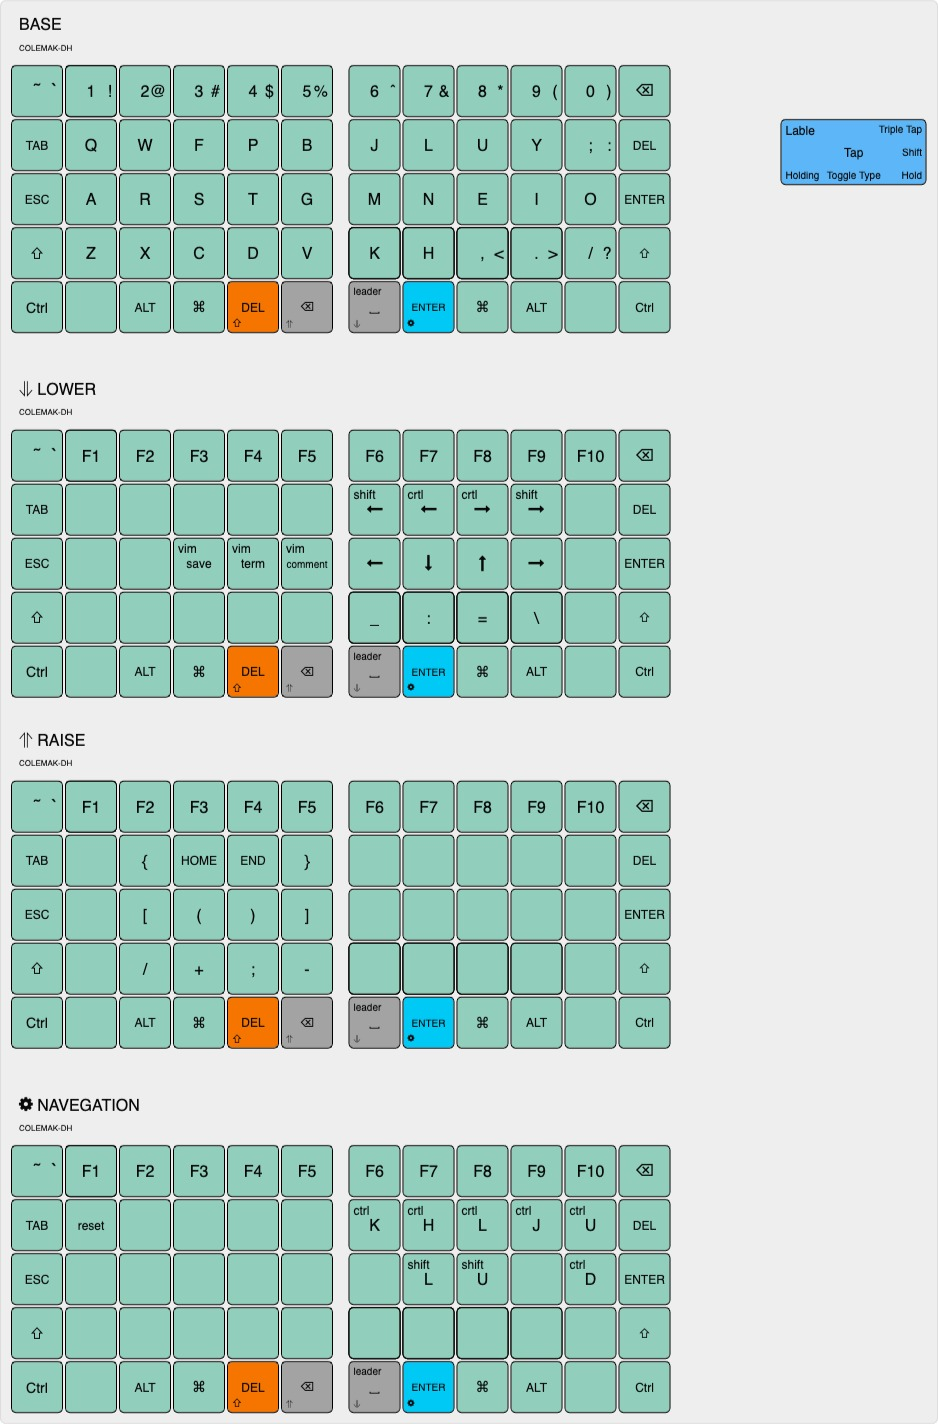
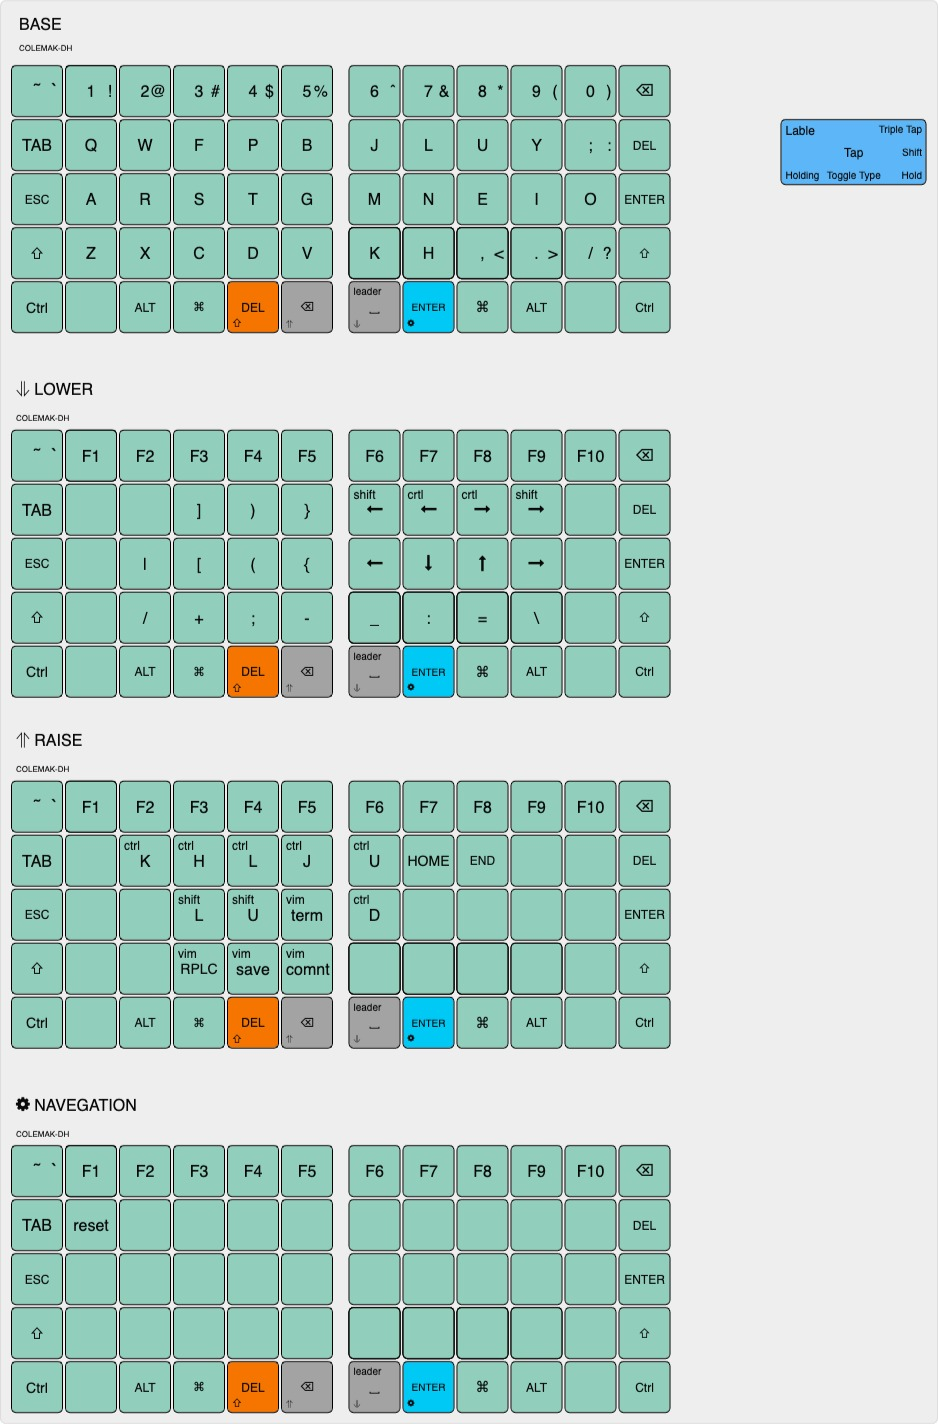
update mappings

diff --git a/src/qmk/users/arturgoms/definitions/keymap_blocks.h b/src/qmk/users/arturgoms/definitions/keymap_blocks.h
@@ -26,9 +26,9 @@
  // |_______________________________________________________________________________________________________________________________|
 
 #define __________________LOWER_L0________________ KC_F1, KC_F2, KC_F3, KC_F4, KC_F5
-#define __________________LOWER_L1________________ XXXXXXX, XXXXXXX, XXXXXXX, XXXXXXX, XXXXXXX
-#define __________________LOWER_L2________________ XXXXXXX, MC_CPR, MC_SAVE, LCTL(KC_BSLS), MC_COMMENT
-#define __________________LOWER_L3________________ XXXXXXX, XXXXXXX, XXXXXXX, XXXXXXX, XXXXXXX
+#define __________________LOWER_L1________________ XXXXXXX, XXXXXXX, KC_RBRC, KC_RPRN, LSFT(KC_RBRC)
+#define __________________LOWER_L2________________ XXXXXXX, KC_PIPE, KC_LBRC, KC_LPRN, LSFT(KC_LBRC)
+#define __________________LOWER_L3________________ XXXXXXX, KC_SLSH, LSFT(KC_EQL), KC_SCLN, KC_MINS
 #define _____LOWER_L4_____                         KC_LGUI,  _______ , MED_0
 
 #define ________LOWER_M0_________                                KC_F6, KC_F7, KC_F8
@@ -41,14 +41,14 @@
  // |_______________________________________________________________________________________________________________________________|
 
 #define _________________RAISE_L0___________________ KC_F1, KC_F2, KC_F3, KC_F4, KC_F5
-#define _________________RAISE_L1___________________ XXXXXXX, LSFT(KC_LBRC), KC_HOME,      KC_END,  LSFT(KC_RBRC)
-#define _________________RAISE_L2___________________ XXXXXXX, KC_LBRC,       KC_LPRN,      KC_RPRN, KC_RBRC
-#define _________________RAISE_L3___________________ XXXXXXX, KC_SLSH,       LSFT(KC_EQL), KC_SCLN, KC_MINS
+#define _________________RAISE_L1___________________ XXXXXXX, LCTL(KC_K), LCTL(KC_H), LCTL(KC_L), LCTL(KC_J)
+#define _________________RAISE_L2___________________ XXXXXXX, XXXXXXX,    LSFT(KC_L), LSFT(KC_U), LCTL(KC_BSLS)
+#define _________________RAISE_L3___________________ XXXXXXX, XXXXXXX,    MC_CPR,     MC_SAVE,    MC_COMMENT
 #define _____RAISE_L4_______                                           KC_LGUI, _______ , _______
 
 #define _________________RAISE_R0_________________ XXXXXXX , XXXXXXX , XXXXXXX , XXXXXXX , XXXXXXX
-#define _________________RAISE_R1_________________ XXXXXXX , XXXXXXX , XXXXXXX , XXXXXXX , XXXXXXX
-#define _________________RAISE_R2_________________ XXXXXXX , XXXXXXX , XXXXXXX , XXXXXXX , XXXXXXX
+#define _________________RAISE_R1_________________ LCTL(KC_U) , KC_HOME , KC_END , XXXXXXX , XXXXXXX
+#define _________________RAISE_R2_________________ LCTL(KC_D) , XXXXXXX , XXXXXXX , XXXXXXX , XXXXXXX
 #define _________________RAISE_R3_________________ XXXXXXX , XXXXXXX , XXXXXXX , XXXXXXX , XXXXXXX
 #define _______RAISE_R4_______                     _______ , _______, KC_RGUI
  // |_______________________________________________________________________________________________________________________________|
@@ -59,10 +59,10 @@
 #define ______________MAINTENANCE_L3_____________ XXXXXXX , RGB_SAD , RGB_SAI , XXXXXXX  , XXXXXXX
 #define __MAINTENANCE_L4_                                             KC_LGUI,  _______ , _______
 
-#define ______________MAINTENANCE_R0____________ XXXXXXX,  XXXXXXX , XXXXXXX , XXXXXXX , XXXXXXX
-#define ______________MAINTENANCE_R1____________ LCTL(KC_K) , LCTL(KC_H)  , LCTL(KC_L) , LCTL(KC_J) ,  LCTL(KC_U)
-#define ______________MAINTENANCE_R2____________ MC_COMMENT , LSFT(KC_L)  , LSFT(KC_U) , XXXXXXX    ,  LCTL(KC_D)
-#define ______________MAINTENANCE_R3____________ XXXXXXX    , XXXXXXX     , XXXXXXX    , XXXXXXX    , XXXXXXX
+#define ______________MAINTENANCE_R0____________ XXXXXXX , XXXXXXX , XXXXXXX , XXXXXXX , XXXXXXX
+#define ______________MAINTENANCE_R1____________ XXXXXXX , XXXXXXX , XXXXXXX , XXXXXXX , XXXXXXX
+#define ______________MAINTENANCE_R2____________ XXXXXXX , XXXXXXX , XXXXXXX , XXXXXXX , XXXXXXX
+#define ______________MAINTENANCE_R3____________ XXXXXXX , XXXXXXX , XXXXXXX , XXXXXXX , XXXXXXX
 #define ___MAINTENANCE_R4___                     _______ , _______, KC_RGUI
 
  // |_______________________________________________________________________________________________________________________________|
